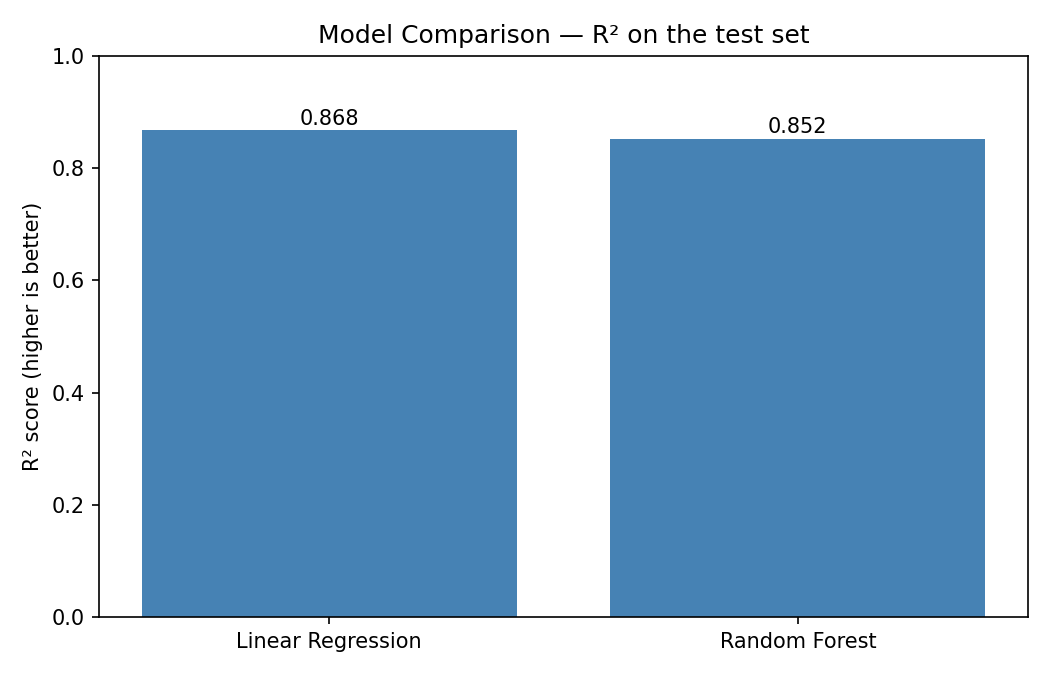
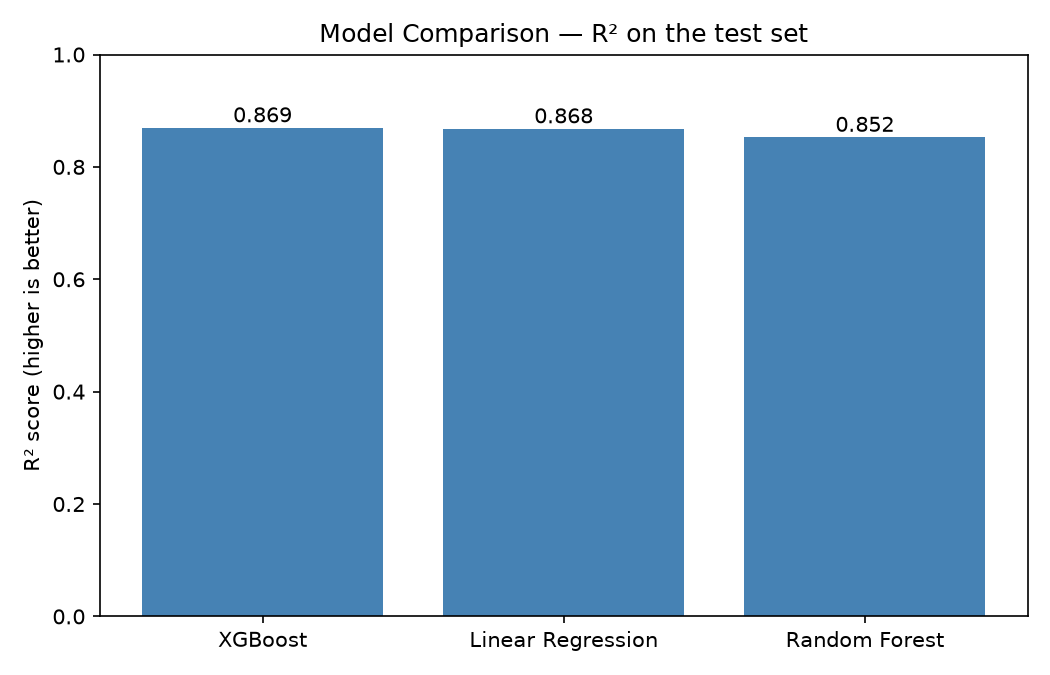
Polish app UI and retrain model

diff --git a/app/app.py b/app/app.py
@@ -8,8 +8,9 @@ import streamlit as st
 
 ROOT = Path(__file__).resolve().parents[1]
 MODEL_PATH = ROOT / "models" / "house_price_model.pkl"
+METRICS_PATH = ROOT / "reports" / "model_comparison.csv"
 
-st.set_page_config(page_title="House Price Predictor", page_icon="🏠")
+st.set_page_config(page_title="House Price Predictor", page_icon="🏠", layout="centered")
 
 
 @st.cache_resource
@@ -17,8 +18,15 @@ def load_model():
     return joblib.load(MODEL_PATH)
 
 
[email redacted]_data
+def load_metrics():
+    if METRICS_PATH.exists():
+        return pd.read_csv(METRICS_PATH)
+    return None
+
+
 st.title("House Price Predictor")
-st.write("Enter the details of a house to get an estimated market price.")
+st.write("Estimate a house's market price from its key characteristics.")
 
 if not MODEL_PATH.exists():
     st.error(
@@ -29,29 +37,34 @@ if not MODEL_PATH.exists():
     st.stop()
 
 model = load_model()
+metrics = load_metrics()
 
-col1, col2 = st.columns(2)
+with st.form("house"):
+    col1, col2 = st.columns(2)
 
-with col1:
-    area = st.number_input("Area (sq ft)", min_value=300, max_value=12000,
-                           value=1800, step=50)
-    bedrooms = st.selectbox("Bedrooms", [1, 2, 3, 4, 5], index=2)
-    bathrooms = st.selectbox("Bathrooms", [1, 2, 3, 4], index=1)
-    stories = st.selectbox("Stories", [1, 2, 3, 4], index=1)
+    with col1:
+        area = st.number_input("Area (sq ft)", min_value=300, max_value=12000,
+                               value=1800, step=50)
+        bedrooms = st.selectbox("Bedrooms", [1, 2, 3, 4, 5], index=2)
+        bathrooms = st.selectbox("Bathrooms", [1, 2, 3, 4], index=1)
+        stories = st.selectbox("Stories", [1, 2, 3, 4], index=1)
 
-with col2:
-    location = st.selectbox(
-        "Location", ["Downtown", "Midtown", "Suburban", "Rural", "Waterfront"]
+    with col2:
+        location = st.selectbox(
+            "Location", ["Downtown", "Midtown", "Suburban", "Rural", "Waterfront"]
+        )
+        house_age = st.slider("House age (years)", min_value=0, max_value=60, value=10)
+        parking = st.selectbox("Parking spots", [0, 1, 2, 3], index=1)
+        main_road = st.radio("On a main road?", ["yes", "no"], horizontal=True)
+
+    furnishing_status = st.selectbox(
+        "Furnishing status", ["furnished", "semi-furnished", "unfurnished"], index=1
     )
-    house_age = st.slider("House age (years)", min_value=0, max_value=60, value=10)
-    parking = st.selectbox("Parking spots", [0, 1, 2, 3], index=1)
-    main_road = st.radio("On a main road?", ["yes", "no"], horizontal=True)
 
-furnishing_status = st.selectbox(
-    "Furnishing status", ["furnished", "semi-furnished", "unfurnished"], index=1
-)
+    submitted = st.form_submit_button("Estimate price", type="primary",
+                                      width="stretch")
 
-if st.button("Estimate price", type="primary"):
+if submitted:
     input_df = pd.DataFrame([{
         "area": area,
         "bedrooms": bedrooms,
@@ -63,11 +76,43 @@ if st.button("Estimate price", type="primary"):
         "main_road": main_road,
         "furnishing_status": furnishing_status,
     }])
-
     input_df["total_rooms"] = input_df["bedrooms"] + input_df["bathrooms"]
     input_df["is_new"] = (input_df["house_age"] <= 5).astype(int)
 
     predicted_price = model.predict(input_df)[0]
 
-    st.metric(label="Estimated house price", value=f"${predicted_price:,.0f}")
+    st.divider()
+
+    m1, m2, m3 = st.columns(3)
+    m1.metric("Estimated price", f"${predicted_price:,.0f}")
+    m2.metric("Price per sq ft", f"${predicted_price / area:,.0f}")
+    if metrics is not None:
+        mae = metrics.iloc[0]["MAE"]
+        m3.metric("Typical error", f"± ${mae:,.0f}")
+        st.caption(
+            f"Likely range: **${predicted_price - mae:,.0f} – "
+            f"${predicted_price + mae:,.0f}** based on the model's mean "
+            "absolute error on held-out test data."
+        )
+
     st.caption("Trained on this project's dataset — not a real valuation.")
+
+st.divider()
+
+with st.expander("About the model"):
+    st.write(
+        "A scikit-learn pipeline (imputation, one-hot encoding, scaling, and "
+        "the best of three compared regressors) trained on ~1,500 listings. "
+        "Test-set results:"
+    )
+    if metrics is not None:
+        st.dataframe(
+            metrics.style.format({"MAE": "${:,.0f}", "RMSE": "${:,.0f}", "R2": "{:.3f}"}),
+            hide_index=True,
+            width="stretch",
+        )
+    st.write(
+        "Source code and full pipeline: "
+        "[github.com/SamGabriel-Here/house-price-prediction]"
+        "(https://github.com/SamGabriel-Here/house-price-prediction)"
+    )

diff --git a/README.md b/README.md
@@ -69,13 +69,13 @@ and saves whichever scores highest on the test set:
 
 | Model | MAE ($) | RMSE ($) | R² |
 |---|---:|---:|---:|
+| XGBoost | 30,930 | 52,046 | 0.869 |
 | Linear Regression | 32,863 | 52,401 | 0.868 |
 | Random Forest | 34,382 | 55,308 | 0.853 |
-| XGBoost | — | — | (runs if `xgboost` is installed) |
 
-Linear Regression wins here — the price patterns in this dataset are mostly
-linear, so the simpler model generalizes better. Exact numbers vary slightly
-by library version.
+XGBoost wins, but only narrowly over plain Linear Regression — the price
+patterns in this dataset are mostly linear. Exact numbers vary slightly by
+library version.
 
 **App** (`app/app.py`) — a Streamlit form for the house features that returns
 a price estimate from the saved model.